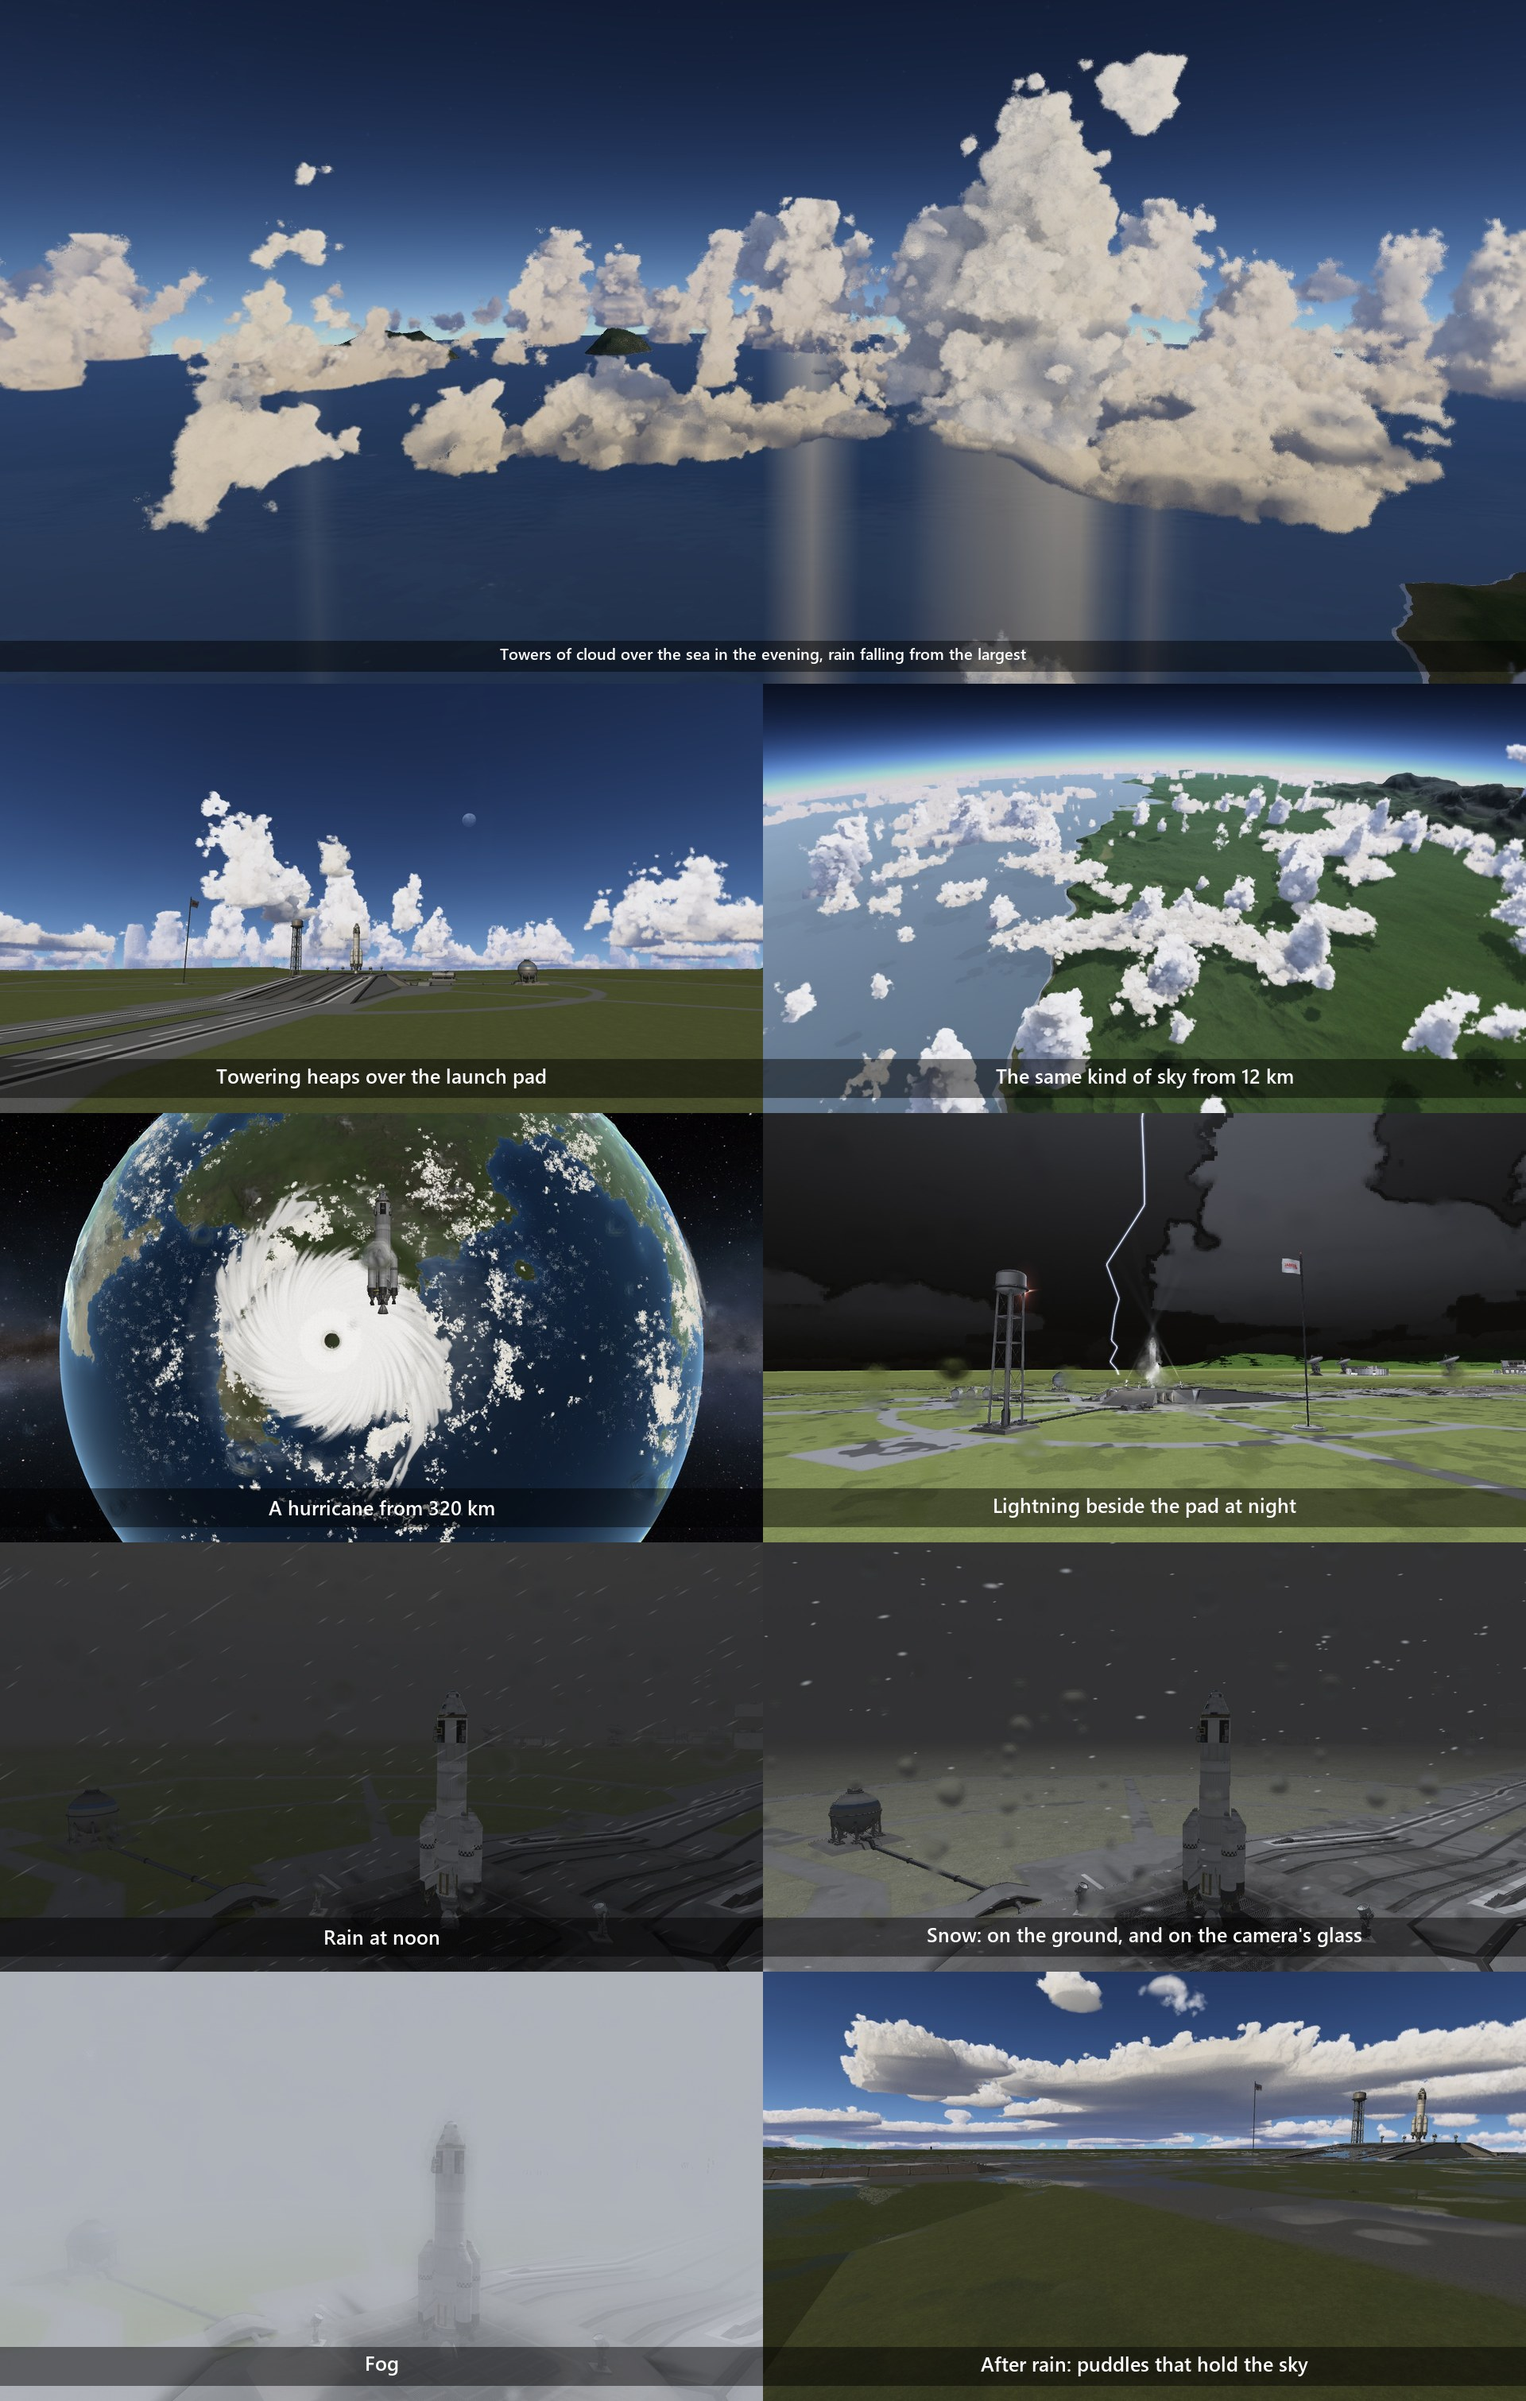
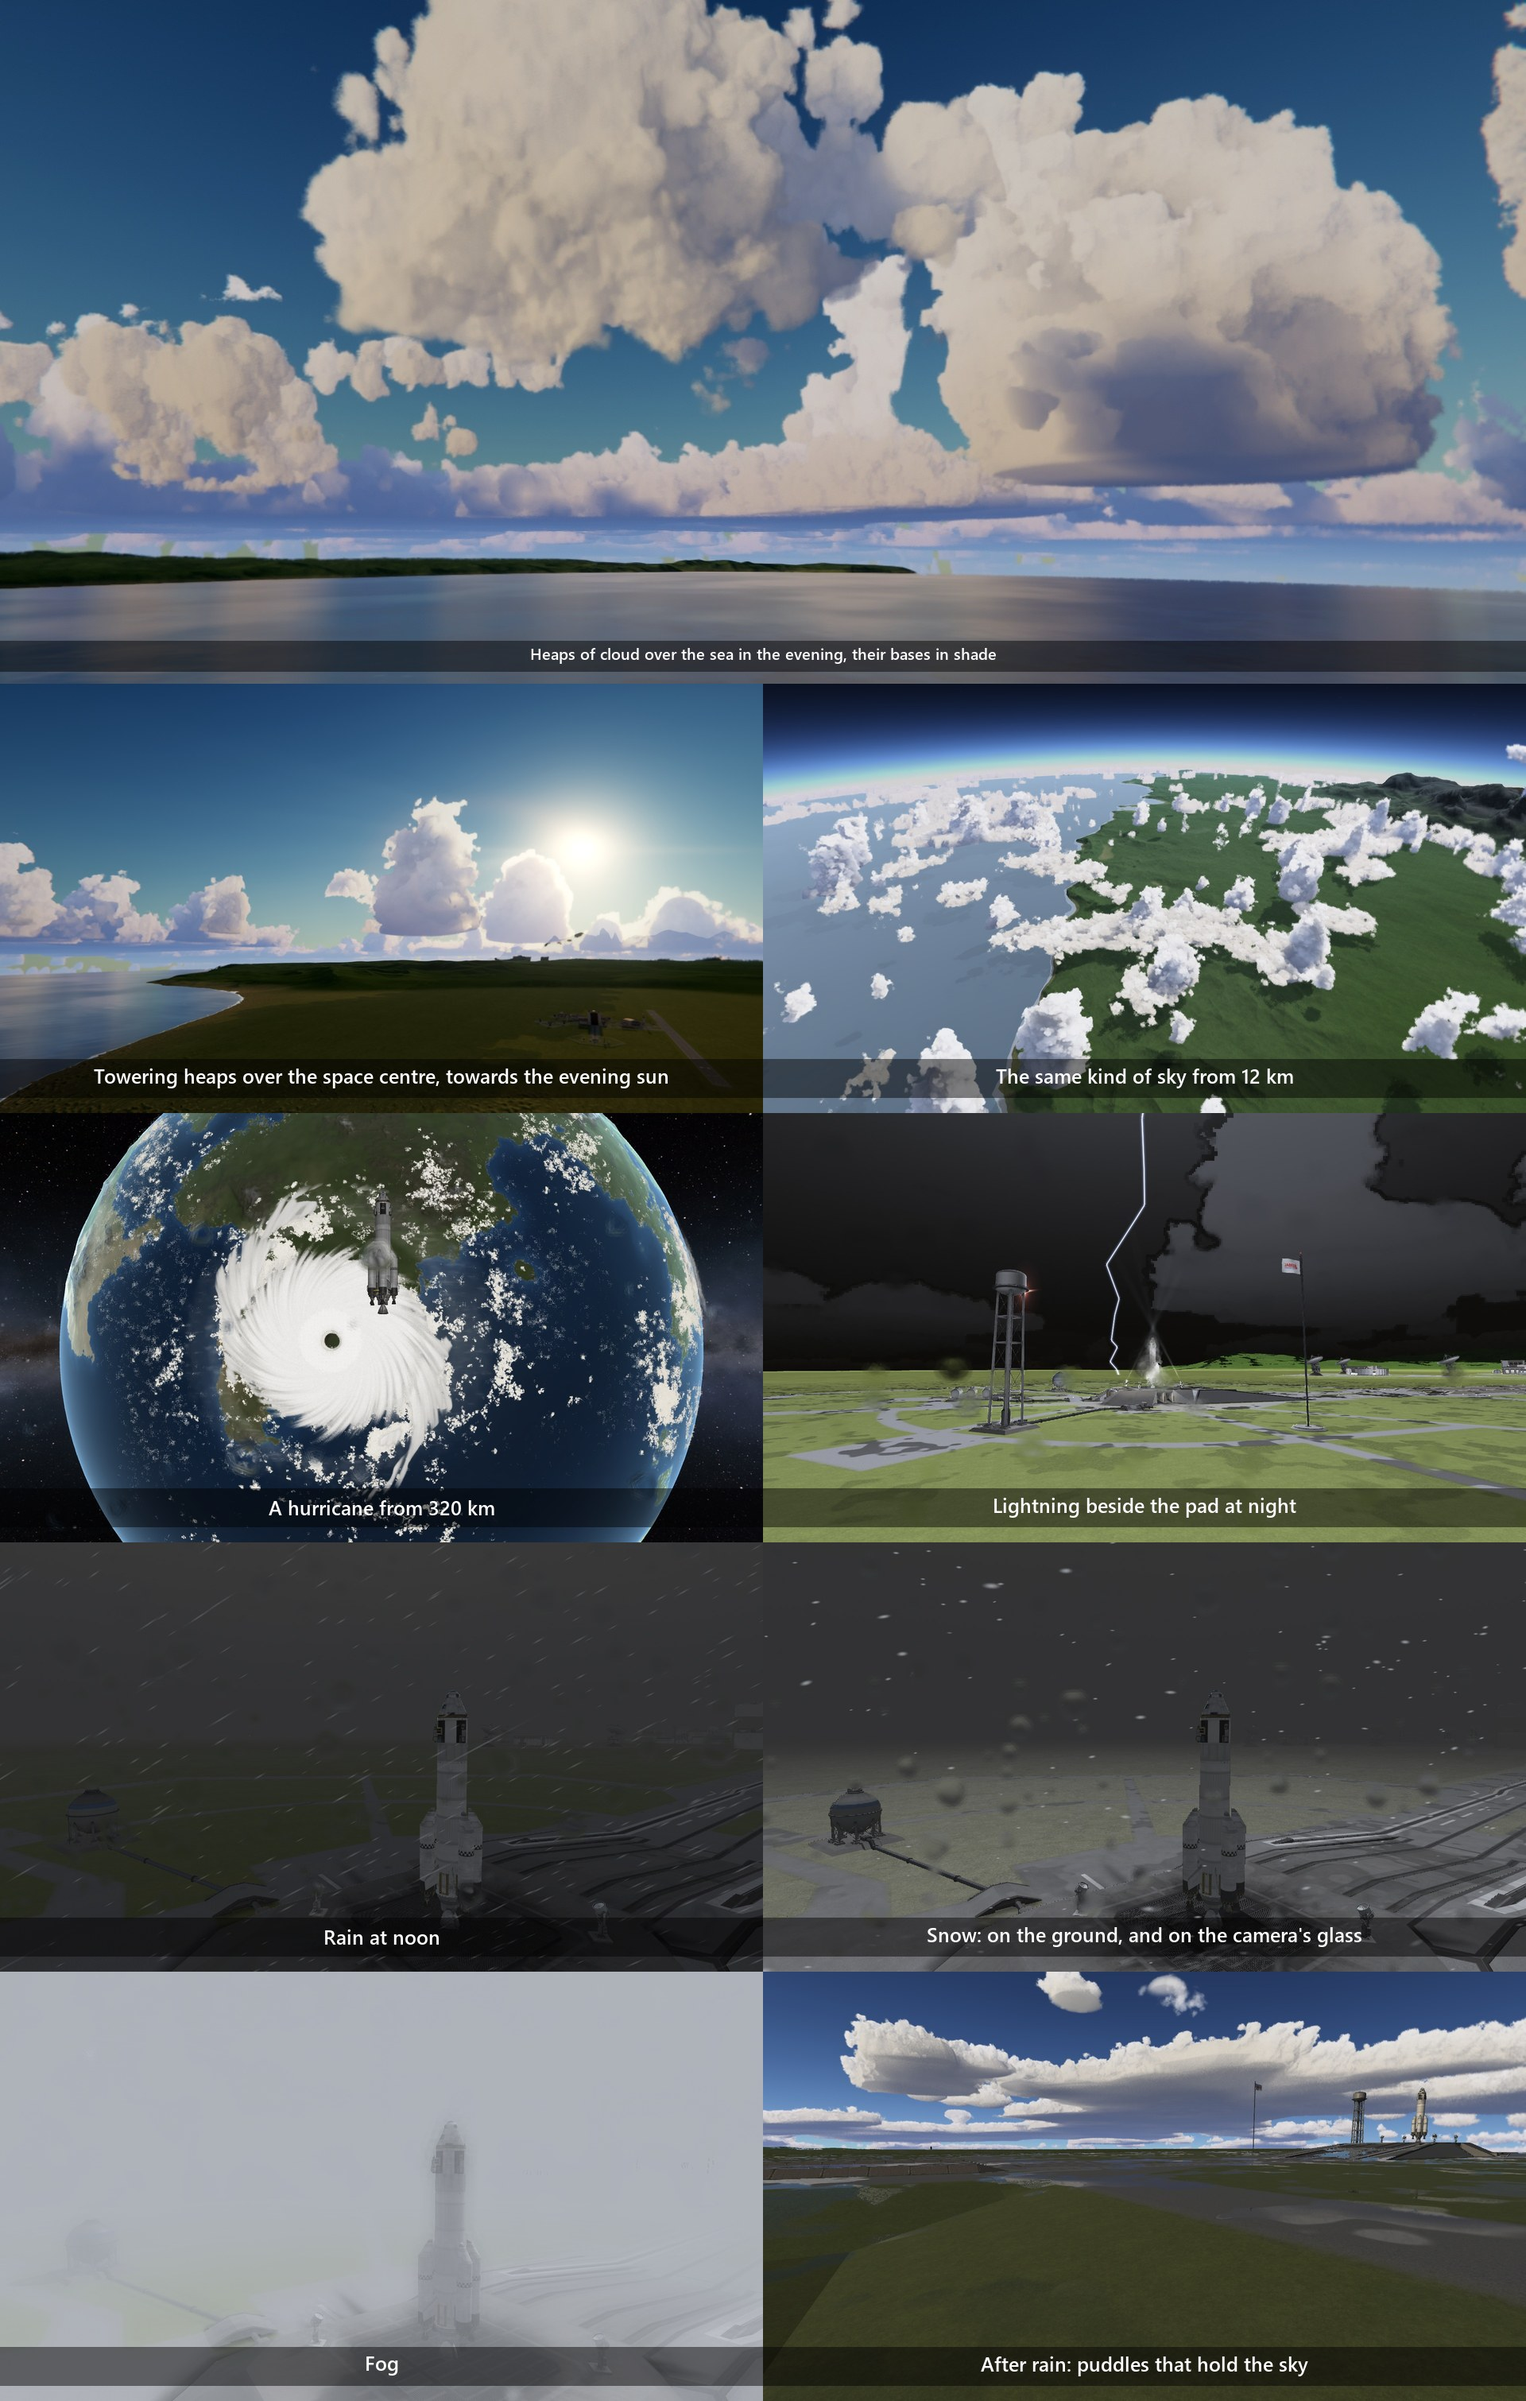
Natural Weather: a new front picture and panorama loop (the towering sky from 600 m in the evening, beside Scatterer and TUFX).

diff --git a/README.md b/README.md
@@ -3,9 +3,11 @@
 Weather that is seen and felt: wind on craft and smoke, clouds that dim the sun, rain and snow, lightning and
 thunder, fog and dust storms, hurricanes.
 
-![Towers of cloud over the sea in the evening with rain under the largest; towering heaps over the pad; the same kind of sky from 12 km; a hurricane from 320 km; lightning by the pad at night; rain; snow; fog; puddles after rain](src/NaturalWeather/img/natural-weather-tour.jpg)
+![Heaps of cloud over the sea in the evening, their bases in shade; towering heaps over the space centre towards the evening sun; the same kind of sky from 12 km; a hurricane from 320 km; lightning by the pad at night; rain; snow; fog; puddles after rain](src/NaturalWeather/img/natural-weather-tour.jpg)
 
-![The camera going once round at 3 km in the evening: towers of cloud over the sea and the land, shafts of rain under the largest](src/NaturalWeather/img/natural-weather-clouds.gif)
+![The camera going once round at 600 m in the evening, under towering heaps: the sea, the coast and the space centre](src/NaturalWeather/img/natural-weather-clouds.gif)
+
+The first two pictures and this loop were taken beside Scatterer and TUFX, which draw the sky's and the sea's haze; the rest with these mods alone.
 
 ![Rain on the lens, then a hurricane's gust: the drops torn away, a rocket blown over on the pad, its fire and smoke blown off (the fire is Volumetric Explosions')](src/NaturalWeather/img/natural-weather-storm.gif)
 
